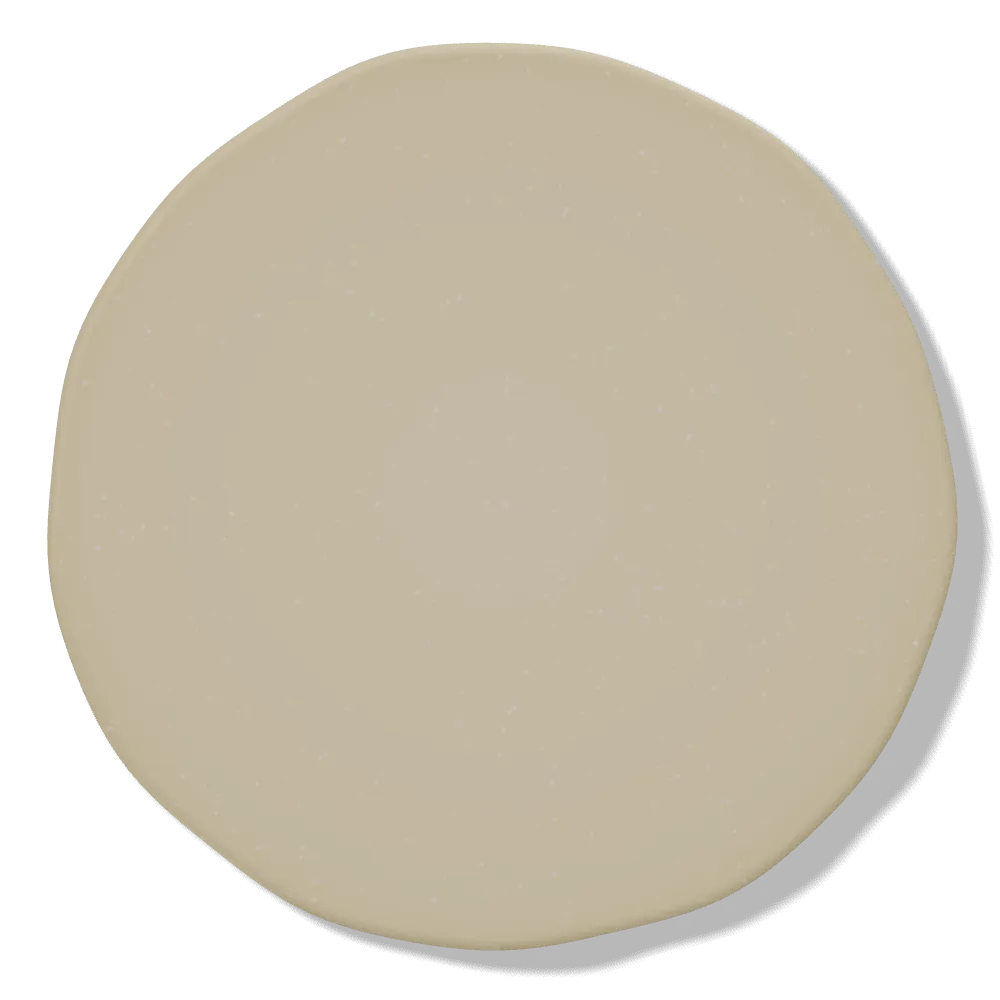
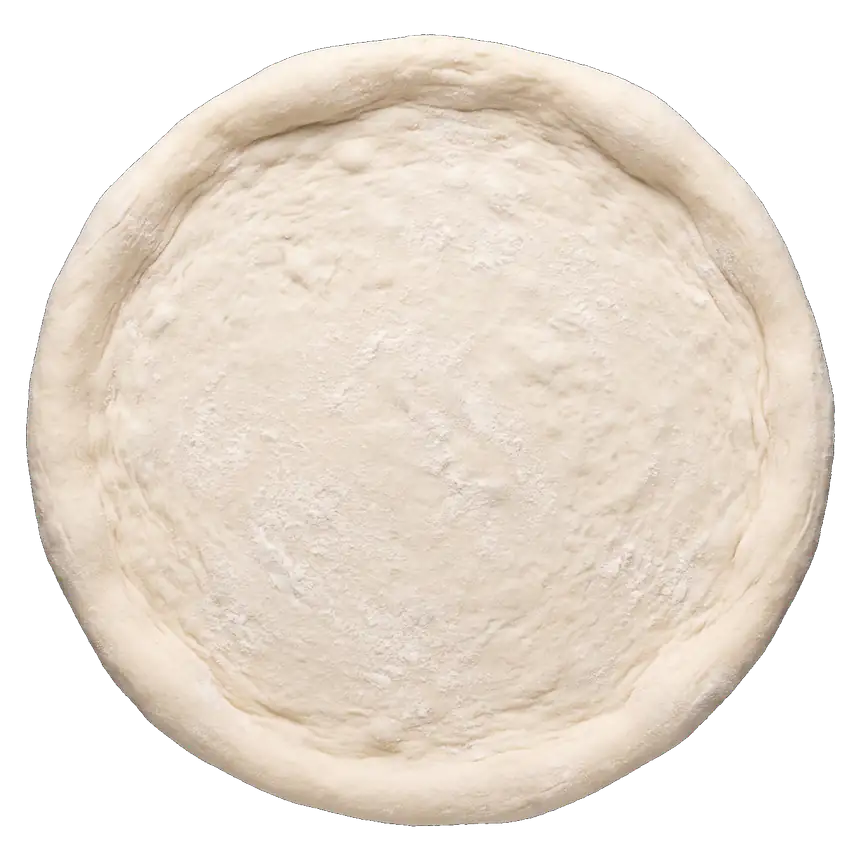
La Leñera con pizza de foto real y PRENSA empaca la hamburguesa
- La Leñera: masa cruda y horneada, salsa, queso rallado y fundido y los 7
  ingredientes pasan de renders a fotos de IA (Higgsfield). Se ven en la
  portada que se arma sola, en "Arma tu pizza" y en las destacadas.
  Nueva imagen para compartir.
- PRENSA: después de armarse, la hamburguesa entra a su caja kraft y la
  tapa se cierra con el sello de PRENSA (2 videos de Kling, 60 cuadros en
  escritorio y 40 en celular, cargan después de los primeros).

diff --git a/pizzeria/index.html b/pizzeria/index.html
@@ -298,7 +298,7 @@ body{background:var(--page)}
 <body>
 <a class="skip" href="#menu">Saltar al menú</a>
 <div id="app"><noscript><p style="padding:24px">Activa JavaScript para ver la carta y hacer tu pedido.</p></noscript></div>
-<script>window.MENU={"id":"pizzeria","estilo":"nocturna","portada":{"tituloHTML":"Hecha a \u003cem>fuego\u003c/em>\u003cbr>de leña.","cta":"Arma la tuya"},"name":"La Leñera","nameHTML":"La \u003cem>Leñera\u003c/em>","kicker":"Pizzería · Horno de leña","tagline":"Masa madre de 48 horas, horno de leña a 450 °C y la pizza a tu gusto. Llega caliente a tu casa.","address":"Av. Cuba 655, Jesús María","hero":{"img":"img/og.jpg"},"hours":{"0":[["12:30","22:30"]],"1":[["12:30","23:00"]],"2":[["12:30","23:00"]],"3":[["12:30","23:00"]],"4":[["12:30","23:00"]],"5":[["12:30","00:00"]],"6":[["12:30","00:00"]]},"hoursLabel":"Lun a jue 12:30 p. m. – 11:00 p. m. · Vie y sáb 12:30 p. m. – medianoche · Dom 12:30 p. m. – 10:30 p. m.","delivery":"S/ 5 a S/ 8 según zona · llega en 30–45 min","deliveryFee":"S/ 5 a S/ 8","pickup":"Lista en 15 min · Av. Cuba 655","deliveryShort":"30–45 min · desde S/ 5","pickupShort":"Lista en 15 min","searchPh":"Busca “pepperoni”, “lasaña”, “chicha”…","emptyHint":"Prueba con “pizza”, “pan al ajo” o “tiramisú”.","notePh":"Ej.: bien tostada, sin orégano, cortada en 8","featuredTitle":"Las que más salen del horno","featuredSub":"Medianas de 30 cm; la familiar cuesta S/ 12 más","layout":"row","armador":{"dir":"img/pizza/","chip":"Arma la tuya","titulo":"Arma tu pizza","sub":"Elige el tamaño y hasta 5 ingredientes: caen en tu pizza y el precio se calcula solo.","nombreItem":"Pizza armada","max":5,"tamInicial":1,"tamanos":[{"id":"personal","nombre":"Personal","cm":20,"precio":22,"escala":0.76},{"id":"mediana","nombre":"Mediana","cm":30,"precio":32,"escala":0.88},{"id":"familiar","nombre":"Familiar","cm":40,"precio":44,"escala":1}],"ingredientes":[{"id":"pepperoni","nombre":"Pepperoni","precio":[3,4,5],"n":9,"w":11},{"id":"jamon","nombre":"Jamón","precio":[3,4,5],"n":7,"w":10.2},{"id":"champinon","nombre":"Champiñones","precio":[2,3,4],"n":8,"w":8.8},{"id":"pina","nombre":"Piña","precio":[2,3,4],"n":9,"w":8.2},{"id":"aceituna","nombre":"Aceitunas","precio":[2,3,4],"n":10,"w":5.6},{"id":"pimiento","nombre":"Pimiento","precio":[2,3,4],"n":7,"w":8.4},{"id":"albahaca","nombre":"Albahaca","precio":[1,2,2],"n":7,"w":6.2}],"inicial":["pepperoni","champinon"],"hero":{"ingredientes":[{"id":"pepperoni","n":9},{"id":"albahaca","n":6},{"id":"aceituna","n":7}]}},"featured":["p2","p1","p4","p5"],"categories":[{"id":"pizzas","name":"Pizzas de la casa","note":"Medianas de 30 cm, 8 tajadas. La familiar (40 cm) cuesta S/ 12 más: avísanos en la nota.","items":[{"id":"p1","pizza":[{"id":"albahaca","n":7}],"name":"Margarita","desc":"Salsa de tomate italiano, mozzarella fresca, albahaca y un hilo de aceite de oliva. La de siempre, perfecta.","price":32,"img":"1604068549290-dea0e4a305ca","alt":"Pizza margarita con mozzarella fresca y hojas de albahaca","tags":["house"]},{"id":"p2","pizza":[{"id":"pepperoni","n":11}],"name":"Pepperoni","desc":"Doble capa de pepperoni que se riza y se dora en el horno de leña, sobre bastante mozzarella.","price":36,"img":"1534308983496-4fabb1a015ee","alt":"Pizza de pepperoni recién horneada","tags":["top"]},{"id":"p3","name":"Americana","desc":"Jamón ahumado y mozzarella gratinada. La favorita de los chicos.","price":34},{"id":"p4","pizza":[{"id":"jamon","n":7},{"id":"pina","n":8}],"name":"Hawaiana","desc":"Jamón y piña caramelizada en el horno. Sí, con piña, y nos encanta.","price":36,"img":"1562835155-a7c2a225e97d","alt":"Pizza hawaiana con jamón y piña"},{"id":"p5","pizza":[{"id":"champinon","n":6},{"id":"pimiento","n":5},{"id":"aceituna","n":7}],"name":"Vegetariana","desc":"Champiñones, pimiento asado, aceitunas negras y cebolla morada.","price":36,"tags":["veg"]},{"id":"p6","name":"Cuatro quesos","desc":"Mozzarella, parmesano, queso azul y queso andino de Cajamarca.","price":39},{"id":"p7","name":"La Leñera","desc":"Chorizo parrillero, pimientos asados, cebolla caramelizada y un toque de ají amarillo.","price":42,"tags":["house","spicy"]},{"id":"p8","name":"Lomo saltado","desc":"Lomo salteado al wok con cebolla, tomate y sillao, terminado con papas al hilo y culantro.","price":45,"tags":["new"]}]},{"id":"entradas","name":"Para empezar","items":[{"id":"e1","name":"Pan al ajo","desc":"Masa madre horneada con mantequilla de ajo y perejil. 8 piezas.","price":12,"img":"1556008531-57e6eefc7be4","alt":"Pan al ajo tostado con perejil"},{"id":"e2","name":"Pan al ajo con mozzarella","desc":"El mismo pan, gratinado con mozzarella que se estira.","price":15},{"id":"e3","name":"Alitas BBQ","desc":"8 alitas horneadas con salsa BBQ de la casa y dip de queso azul.","price":24,"tags":["top"]},{"id":"e4","name":"Ensalada caprese","desc":"Tomate, mozzarella fresca, albahaca y reducción de balsámico.","price":19,"tags":["veg"]},{"id":"e5","name":"Calzone de jamón y queso","desc":"Pizza cerrada rellena de jamón, mozzarella y ricota. Sale inflada del horno.","price":29,"img":"1753656681797-3234c89d6d4d","alt":"Calzone dorado sobre tabla de madera"}]},{"id":"pastas","name":"Pastas al horno","items":[{"id":"pa1","name":"Lasaña de carne","desc":"Capas de pasta fresca, boloñesa de cocción lenta, bechamel y parmesano gratinado.","price":32,"img":"1709429790175-b02bb1b19207","alt":"Porción de lasaña de carne con albahaca","tags":["top"]},{"id":"pa2","name":"Fettuccine Alfredo","desc":"Pasta fresca en salsa de crema, mantequilla y parmesano.","price":29},{"id":"pa3","name":"Ravioles a la huancaína","desc":"Rellenos de queso fresco en salsa huancaína suave, con aceituna y huevo.","price":31,"tags":["new"]}]},{"id":"bebidas","name":"Bebidas","items":[{"id":"b1","name":"Chicha morada 1 L","desc":"Hecha en casa con maíz morado, piña y canela.","price":12,"ill":"bottle","color":"#7A2A5A","illWord":"Chicha morada"},{"id":"b2","name":"Limonada frozen","desc":"Limón recién exprimido y hielo frappé.","price":9,"ill":"glass","color":"#D9E87A","illWord":"Limonada","tags":["cold"]},{"id":"b3","name":"Inca Kola 1.5 L","desc":"Bien helada, para compartir.","price":10,"ill":"bottle","color":"#F2C200","illWord":"Inca Kola 1.5 L"},{"id":"b4","name":"Cerveza artesanal","desc":"Pale ale limeña de 355 ml. Pregunta por la de temporada.","price":15,"ill":"bottle","color":"#E0A040","illWord":"Cerveza"},{"id":"b5","name":"Sangría (jarra 1 L)","desc":"Vino tinto, frutas de estación y un toque de canela.","price":39,"ill":"cocktail","color":"#8A1C2A","illWord":"Sangría","tags":["share"]}]},{"id":"postres","name":"Postres","items":[{"id":"d1","name":"Tiramisú","desc":"Con café pasado de Villa Rica y mascarpone. Porción generosa.","price":16,"ill":"dessert","color":"#B98A5A","illWord":"Tiramisú","tags":["house"]},{"id":"d2","name":"Calzone de Nutella y fresas","desc":"Masa al horno rellena de Nutella y fresas, con azúcar impalpable.","price":19,"ill":"dessert","color":"#6B3A22","illWord":"Calzone dulce"},{"id":"d3","name":"Helado artesanal de lúcuma","desc":"Dos bolas, hecho en casa.","price":10,"ill":"dessert","color":"#E9B04A","illWord":"Lúcuma","tags":["cold"]}]}],"emblem":"\u003csvg class=\"brand__emblem\" viewBox=\"0 0 100 100\" role=\"img\" aria-label=\"Emblema de La Leñera\">\n\u003cdefs>\u003cpath id=\"lnArc\" d=\"M18 50a32 32 0 0 0 64 0\"/>\u003c/defs>\n\u003ccircle cx=\"50\" cy=\"50\" r=\"49\" fill=\"#C8321C\"/>\n\u003ccircle cx=\"50\" cy=\"50\" r=\"43\" fill=\"#1B1512\"/>\n\u003ccircle cx=\"50\" cy=\"50\" r=\"39\" fill=\"none\" stroke=\"#F2A900\" stroke-width=\"1\" stroke-dasharray=\"1.5 2.5\"/>\n\u003cpath d=\"M26 58h48l-4 8H30z\" fill=\"#F2A900\"/>\n\u003cpath d=\"M50 24c3 8 13 12 13 24a13 13 0 0 1-26 0c0-7 3.5-10.5 6-13 .5 4 2 6.5 4.8 7.4-1.3-7 0-13.4 2.2-18.4z\" fill=\"#C8321C\"/>\n\u003cpath d=\"M50.4 39c1.8 4.3 6.5 6 6.5 11.6a6.7 6.7 0 0 1-13.4 0c0-3.4 1.7-5.2 3.3-6.5.5 2.2 1.5 3.1 2.6 3.4-.7-3.4 0-6.2 1-8.5z\" fill=\"#F2A900\"/>\n\u003ctext font-family=\"Figtree,system-ui,sans-serif\" font-size=\"7.4\" font-weight=\"800\" letter-spacing=\"2\" fill=\"#FFF3E2\">\u003ctextPath href=\"#lnArc\" startOffset=\"50%\" text-anchor=\"middle\">HORNO DE LEÑA\u003c/textPath>\u003c/text>\n\u003c/svg>","heroDeco":"","catDeco":"","footDeco":""};</script>
+<script>window.MENU={"id":"pizzeria","estilo":"nocturna","portada":{"tituloHTML":"Hecha a \u003cem>fuego\u003c/em>\u003cbr>de leña.","cta":"Arma la tuya"},"name":"La Leñera","nameHTML":"La \u003cem>Leñera\u003c/em>","kicker":"Pizzería · Horno de leña","tagline":"Masa madre de 48 horas, horno de leña a 450 °C y la pizza a tu gusto. Llega caliente a tu casa.","address":"Av. Cuba 655, Jesús María","hero":{"img":"img/og.jpg"},"hours":{"0":[["12:30","22:30"]],"1":[["12:30","23:00"]],"2":[["12:30","23:00"]],"3":[["12:30","23:00"]],"4":[["12:30","23:00"]],"5":[["12:30","00:00"]],"6":[["12:30","00:00"]]},"hoursLabel":"Lun a jue 12:30 p. m. – 11:00 p. m. · Vie y sáb 12:30 p. m. – medianoche · Dom 12:30 p. m. – 10:30 p. m.","delivery":"S/ 5 a S/ 8 según zona · llega en 30–45 min","deliveryFee":"S/ 5 a S/ 8","pickup":"Lista en 15 min · Av. Cuba 655","deliveryShort":"30–45 min · desde S/ 5","pickupShort":"Lista en 15 min","searchPh":"Busca “pepperoni”, “lasaña”, “chicha”…","emptyHint":"Prueba con “pizza”, “pan al ajo” o “tiramisú”.","notePh":"Ej.: bien tostada, sin orégano, cortada en 8","featuredTitle":"Las que más salen del horno","featuredSub":"Medianas de 30 cm; la familiar cuesta S/ 12 más","layout":"row","armador":{"dir":"img/pizza/","chip":"Arma la tuya","titulo":"Arma tu pizza","sub":"Elige el tamaño y hasta 5 ingredientes: caen en tu pizza y el precio se calcula solo.","nombreItem":"Pizza armada","max":5,"tamInicial":1,"tamanos":[{"id":"personal","nombre":"Personal","cm":20,"precio":22,"escala":0.76},{"id":"mediana","nombre":"Mediana","cm":30,"precio":32,"escala":0.88},{"id":"familiar","nombre":"Familiar","cm":40,"precio":44,"escala":1}],"ingredientes":[{"id":"pepperoni","nombre":"Pepperoni","precio":[3,4,5],"n":9,"w":11},{"id":"jamon","nombre":"Jamón","precio":[3,4,5],"n":7,"w":10.2},{"id":"champinon","nombre":"Champiñones","precio":[2,3,4],"n":8,"w":8.8},{"id":"pina","nombre":"Piña","precio":[2,3,4],"n":9,"w":8.2},{"id":"aceituna","nombre":"Aceitunas","precio":[2,3,4],"n":10,"w":5.6},{"id":"pimiento","nombre":"Pimiento","precio":[2,3,4],"n":7,"w":10.5},{"id":"albahaca","nombre":"Albahaca","precio":[1,2,2],"n":7,"w":8}],"inicial":["pepperoni","champinon"],"hero":{"ingredientes":[{"id":"pepperoni","n":9},{"id":"albahaca","n":6},{"id":"aceituna","n":7}]}},"featured":["p2","p1","p4","p5"],"categories":[{"id":"pizzas","name":"Pizzas de la casa","note":"Medianas de 30 cm, 8 tajadas. La familiar (40 cm) cuesta S/ 12 más: avísanos en la nota.","items":[{"id":"p1","pizza":[{"id":"albahaca","n":7}],"name":"Margarita","desc":"Salsa de tomate italiano, mozzarella fresca, albahaca y un hilo de aceite de oliva. La de siempre, perfecta.","price":32,"img":"1604068549290-dea0e4a305ca","alt":"Pizza margarita con mozzarella fresca y hojas de albahaca","tags":["house"]},{"id":"p2","pizza":[{"id":"pepperoni","n":11}],"name":"Pepperoni","desc":"Doble capa de pepperoni que se riza y se dora en el horno de leña, sobre bastante mozzarella.","price":36,"img":"1534308983496-4fabb1a015ee","alt":"Pizza de pepperoni recién horneada","tags":["top"]},{"id":"p3","name":"Americana","desc":"Jamón ahumado y mozzarella gratinada. La favorita de los chicos.","price":34},{"id":"p4","pizza":[{"id":"jamon","n":7},{"id":"pina","n":8}],"name":"Hawaiana","desc":"Jamón y piña caramelizada en el horno. Sí, con piña, y nos encanta.","price":36,"img":"1562835155-a7c2a225e97d","alt":"Pizza hawaiana con jamón y piña"},{"id":"p5","pizza":[{"id":"champinon","n":6},{"id":"pimiento","n":5},{"id":"aceituna","n":7}],"name":"Vegetariana","desc":"Champiñones, pimiento asado, aceitunas negras y cebolla morada.","price":36,"tags":["veg"]},{"id":"p6","name":"Cuatro quesos","desc":"Mozzarella, parmesano, queso azul y queso andino de Cajamarca.","price":39},{"id":"p7","name":"La Leñera","desc":"Chorizo parrillero, pimientos asados, cebolla caramelizada y un toque de ají amarillo.","price":42,"tags":["house","spicy"]},{"id":"p8","name":"Lomo saltado","desc":"Lomo salteado al wok con cebolla, tomate y sillao, terminado con papas al hilo y culantro.","price":45,"tags":["new"]}]},{"id":"entradas","name":"Para empezar","items":[{"id":"e1","name":"Pan al ajo","desc":"Masa madre horneada con mantequilla de ajo y perejil. 8 piezas.","price":12,"img":"1556008531-57e6eefc7be4","alt":"Pan al ajo tostado con perejil"},{"id":"e2","name":"Pan al ajo con mozzarella","desc":"El mismo pan, gratinado con mozzarella que se estira.","price":15},{"id":"e3","name":"Alitas BBQ","desc":"8 alitas horneadas con salsa BBQ de la casa y dip de queso azul.","price":24,"tags":["top"]},{"id":"e4","name":"Ensalada caprese","desc":"Tomate, mozzarella fresca, albahaca y reducción de balsámico.","price":19,"tags":["veg"]},{"id":"e5","name":"Calzone de jamón y queso","desc":"Pizza cerrada rellena de jamón, mozzarella y ricota. Sale inflada del horno.","price":29,"img":"1753656681797-3234c89d6d4d","alt":"Calzone dorado sobre tabla de madera"}]},{"id":"pastas","name":"Pastas al horno","items":[{"id":"pa1","name":"Lasaña de carne","desc":"Capas de pasta fresca, boloñesa de cocción lenta, bechamel y parmesano gratinado.","price":32,"img":"1709429790175-b02bb1b19207","alt":"Porción de lasaña de carne con albahaca","tags":["top"]},{"id":"pa2","name":"Fettuccine Alfredo","desc":"Pasta fresca en salsa de crema, mantequilla y parmesano.","price":29},{"id":"pa3","name":"Ravioles a la huancaína","desc":"Rellenos de queso fresco en salsa huancaína suave, con aceituna y huevo.","price":31,"tags":["new"]}]},{"id":"bebidas","name":"Bebidas","items":[{"id":"b1","name":"Chicha morada 1 L","desc":"Hecha en casa con maíz morado, piña y canela.","price":12,"ill":"bottle","color":"#7A2A5A","illWord":"Chicha morada"},{"id":"b2","name":"Limonada frozen","desc":"Limón recién exprimido y hielo frappé.","price":9,"ill":"glass","color":"#D9E87A","illWord":"Limonada","tags":["cold"]},{"id":"b3","name":"Inca Kola 1.5 L","desc":"Bien helada, para compartir.","price":10,"ill":"bottle","color":"#F2C200","illWord":"Inca Kola 1.5 L"},{"id":"b4","name":"Cerveza artesanal","desc":"Pale ale limeña de 355 ml. Pregunta por la de temporada.","price":15,"ill":"bottle","color":"#E0A040","illWord":"Cerveza"},{"id":"b5","name":"Sangría (jarra 1 L)","desc":"Vino tinto, frutas de estación y un toque de canela.","price":39,"ill":"cocktail","color":"#8A1C2A","illWord":"Sangría","tags":["share"]}]},{"id":"postres","name":"Postres","items":[{"id":"d1","name":"Tiramisú","desc":"Con café pasado de Villa Rica y mascarpone. Porción generosa.","price":16,"ill":"dessert","color":"#B98A5A","illWord":"Tiramisú","tags":["house"]},{"id":"d2","name":"Calzone de Nutella y fresas","desc":"Masa al horno rellena de Nutella y fresas, con azúcar impalpable.","price":19,"ill":"dessert","color":"#6B3A22","illWord":"Calzone dulce"},{"id":"d3","name":"Helado artesanal de lúcuma","desc":"Dos bolas, hecho en casa.","price":10,"ill":"dessert","color":"#E9B04A","illWord":"Lúcuma","tags":["cold"]}]}],"emblem":"\u003csvg class=\"brand__emblem\" viewBox=\"0 0 100 100\" role=\"img\" aria-label=\"Emblema de La Leñera\">\n\u003cdefs>\u003cpath id=\"lnArc\" d=\"M18 50a32 32 0 0 0 64 0\"/>\u003c/defs>\n\u003ccircle cx=\"50\" cy=\"50\" r=\"49\" fill=\"#C8321C\"/>\n\u003ccircle cx=\"50\" cy=\"50\" r=\"43\" fill=\"#1B1512\"/>\n\u003ccircle cx=\"50\" cy=\"50\" r=\"39\" fill=\"none\" stroke=\"#F2A900\" stroke-width=\"1\" stroke-dasharray=\"1.5 2.5\"/>\n\u003cpath d=\"M26 58h48l-4 8H30z\" fill=\"#F2A900\"/>\n\u003cpath d=\"M50 24c3 8 13 12 13 24a13 13 0 0 1-26 0c0-7 3.5-10.5 6-13 .5 4 2 6.5 4.8 7.4-1.3-7 0-13.4 2.2-18.4z\" fill=\"#C8321C\"/>\n\u003cpath d=\"M50.4 39c1.8 4.3 6.5 6 6.5 11.6a6.7 6.7 0 0 1-13.4 0c0-3.4 1.7-5.2 3.3-6.5.5 2.2 1.5 3.1 2.6 3.4-.7-3.4 0-6.2 1-8.5z\" fill=\"#F2A900\"/>\n\u003ctext font-family=\"Figtree,system-ui,sans-serif\" font-size=\"7.4\" font-weight=\"800\" letter-spacing=\"2\" fill=\"#FFF3E2\">\u003ctextPath href=\"#lnArc\" startOffset=\"50%\" text-anchor=\"middle\">HORNO DE LEÑA\u003c/textPath>\u003c/text>\n\u003c/svg>","heroDeco":"","catDeco":"","footDeco":""};</script>
 <script>
 (function () {
   'use strict';

diff --git a/hamburgueseria/index.html b/hamburgueseria/index.html
@@ -394,12 +394,12 @@ dialog.hoja[open]{animation:sube .35s var(--curva)}
         <p class="nota"><span>Delivery 35–45 min</span><span>Yape, Plin o efectivo</span></p>
       </div>
 
-      <div class="fase fase-b" data-de="0.36" data-a="0.6" aria-hidden="true">
+      <div class="fase fase-b" data-de="0.32" data-a="0.52" aria-hidden="true">
         <p class="eyebrow">Por dentro</p>
         <h2>Esto es lo que muerdes</h2>
       </div>
 
-      <div class="fase fase-c" data-de="0.86" data-a="1">
+      <div class="fase fase-c" data-de="0.88" data-a="1">
         <p class="eyebrow">A tu puerta</p>
         <h2>Llega caliente. Todavía crujiente.</h2>
         <p class="bajada">Delivery a Barranco, Miraflores, Chorrillos y Surco en caja que respira, para que el pan no se humedezca.</p>
@@ -652,32 +652,38 @@ dialog.hoja[open]{animation:sube .35s var(--curva)}
   var ancho = matchMedia('(min-width: 900px)');
   function suave(a, b, x) { var t = Math.min(1, Math.max(0, (x - a) / (b - a))); return t * t * (3 - 2 * t); }
 
-  // ---------- Portada: la hamburguesa (foto real hecha con IA; _ia/hamburguesa) se desarma al bajar, flota con sus etiquetas y se vuelve a armar ----------
+  // ---------- Portada: la hamburguesa (foto real hecha con IA; _ia/hamburguesa) se desarma al bajar, flota con sus etiquetas, se vuelve a armar y se empaca en su caja ----------
   // Altura (‰ del lienzo) de cada ingrediente etiquetado en el último cuadro, con la hamburguesa abierta.
   var ABIERTA = [145, 330, 400, 540, 668, 722, 852];
   var cine = $('#cine') || $('.cine'), esc = $('#escenario'), lienzo = $('#lienzo'), ctx = lienzo.getContext('2d');
   var poster = $('#poster'), fases = $$('.fase'), etqs = $$('.etq'), palabra = $('#palabra'), desliza = $('.desliza'), riel = $('#riel'), rielLi = $$('li', riel);
   var ahorro = navigator.connection && navigator.connection.saveData;
-  var SET = ancho.matches && !ahorro ? { dir: 'fotogramas/cine/', n: 72 } : { dir: 'fotogramas/ligera/', n: 48 };
-  var cuadros = [], p = 0, meta = 0, pintado = -1, corriendo = false;
+  // Dos secuencias seguidas: n cuadros de armada → abierta (se recorre de ida y vuelta) y m de armada → empacada en su caja.
+  var SET = ancho.matches && !ahorro ? { dir: 'fotogramas/cine/', n: 72, caja: 'fotogramas/caja-cine/', m: 60 } : { dir: 'fotogramas/ligera/', n: 48, caja: 'fotogramas/caja-ligera/', m: 40 };
+  var TOTAL = SET.n + SET.m, cuadros = [], p = 0, meta = 0, pintado = -1, corriendo = false;
 
   function avance() { return Math.min(1, p / 0.92); } // el último 8 % del scroll deja la caja cerrada a la vista
   function abre(t) { // 0 = armada, 1 = abierta
-    return t < 0.06 ? 0 : t < 0.34 ? suave(0.06, 0.34, t) : t < 0.62 ? 1 : t < 0.84 ? 1 - suave(0.62, 0.84, t) : 0;
+    return t < 0.05 ? 0 : t < 0.3 ? suave(0.05, 0.3, t) : t < 0.54 ? 1 : t < 0.72 ? 1 - suave(0.54, 0.72, t) : 0;
   }
-  function idx() { return Math.round(abre(avance()) * (SET.n - 1)); }
+  function empaca(t) { return suave(0.74, 0.93, t); } // 0 = armada, 1 = caja cerrada
+  function idx() {
+    var t = avance(), e = empaca(t);
+    return e > 0 ? SET.n + Math.round(e * (SET.m - 1)) : Math.round(abre(t) * (SET.n - 1));
+  }
   function carga(i) {
     if (cuadros[i]) return;
     var im = new Image(); cuadros[i] = im; im.decoding = 'async';
     im.onload = function () { im.ok = 1; if (Math.abs(i - idx()) <= 2) { pintado = -1; pide(); } };
-    im.src = SET.dir + ('00' + i).slice(-3) + '.webp';
+    im.src = i < SET.n ? SET.dir + ('00' + i).slice(-3) + '.webp' : SET.caja + ('00' + (i - SET.n)).slice(-3) + '.webp';
   }
-  function cercano(k) {
-    for (var d = 0; d < SET.n; d++) {
-      if (cuadros[k - d] && cuadros[k - d].ok) return k - d;
-      if (cuadros[k + d] && cuadros[k + d].ok) return k + d;
+  function cercano(k) { // el cuadro listo más cercano, sin saltar de una secuencia a la otra
+    var lo = k < SET.n ? 0 : SET.n, hi = k < SET.n ? SET.n - 1 : TOTAL - 1;
+    for (var d = 0; d <= hi - lo; d++) {
+      if (k - d >= lo && cuadros[k - d] && cuadros[k - d].ok) return k - d;
+      if (k + d <= hi && cuadros[k + d] && cuadros[k + d].ok) return k + d;
     }
-    return -1;
+    return lo && cuadros[0] && cuadros[0].ok ? 0 : -1; // la caja empieza con la hamburguesa armada, igual que el cuadro 0
   }
   function medir() {
     var w = Math.round(lienzo.clientWidth * Math.min(window.devicePixelRatio || 1, 2));
@@ -701,20 +707,20 @@ dialog.hoja[open]{animation:sube .35s var(--curva)}
       f.style.translate = '0 ' + ((1 - o) * 24).toFixed(1) + 'px';
     });
     var av = avance();
-    var oe = suave(0.36, 0.42, av) * (1 - suave(0.58, 0.64, av));
+    var oe = suave(0.31, 0.36, av) * (1 - suave(0.5, 0.55, av));
     etqs.forEach(function (e, j) {
       e.style.top = (ABIERTA[j] / 10).toFixed(1) + '%';
       e.style.opacity = oe; e.style.translate = (e.classList.contains('izq') ? -1 : 1) * (1 - oe) * 14 + 'px 0';
     });
     // escritorio: a la derecha del título (A), un poco a la derecha con las etiquetas (B), a la izquierda del texto final (C)
-    var k1 = suave(0.1, 0.3, av), k2 = suave(0.68, 0.84, av);
+    var k1 = suave(0.1, 0.28, av), k2 = suave(0.62, 0.76, av);
     var x = ancho.matches ? ((0.15 - 0.04 * k1) * (1 - k2) - 0.17 * k2) * innerWidth : 0;
     esc.style.setProperty('--x', x.toFixed(1) + 'px');
     palabra.style.setProperty('--aplasta', suave(0.86, 0.98, av).toFixed(3));
     desliza.style.opacity = 1 - suave(0.01, 0.06, av);
     riel.style.opacity = (1 - oe) * (1 - suave(0.78, 0.84, av)); // se esconde mientras se ven las etiquetas
     riel.style.setProperty('--p', p.toFixed(3));
-    rielLi.forEach(function (li, j) { li.classList.toggle('ya', av >= [0, 0.36, 0.86][j]); });
+    rielLi.forEach(function (li, j) { li.classList.toggle('ya', av >= [0, 0.31, 0.74][j]); });
   }
   function progreso() {
     var total = cine.offsetHeight - innerHeight;
@@ -729,10 +735,12 @@ dialog.hoja[open]{animation:sube .35s var(--curva)}
 
   carga(0);
   if (!reducir) {
-    // primero 1 de cada 12 cuadros (el recorrido ya se ve completo), luego se va rellenando
-    var orden = [];
-    [12, 6, 3, 1].forEach(function (s) { for (var i = 0; i < SET.n; i += s) if (orden.indexOf(i) < 0) orden.push(i); });
-    if (orden.indexOf(SET.n - 1) < 0) orden.push(SET.n - 1);
+    // primero 1 de cada 12 cuadros de cada secuencia (el recorrido ya se ve completo), luego se va rellenando
+    var orden = [], tanda = function (de, n, pasos) {
+      pasos.forEach(function (s) { for (var i = 0; i < n; i += s) if (orden.indexOf(de + i) < 0) orden.push(de + i); });
+      if (orden.indexOf(de + n - 1) < 0) orden.push(de + n - 1);
+    };
+    tanda(0, SET.n, [12, 6]); tanda(SET.n, SET.m, [12, 6]); tanda(0, SET.n, [3, 1]); tanda(SET.n, SET.m, [3, 1]);
     var arranca = function () { setTimeout(function () { orden.forEach(carga); }, 200); };
     if (document.readyState === 'complete') arranca(); else addEventListener('load', arranca);
     addEventListener('scroll', pide, { passive: true });
